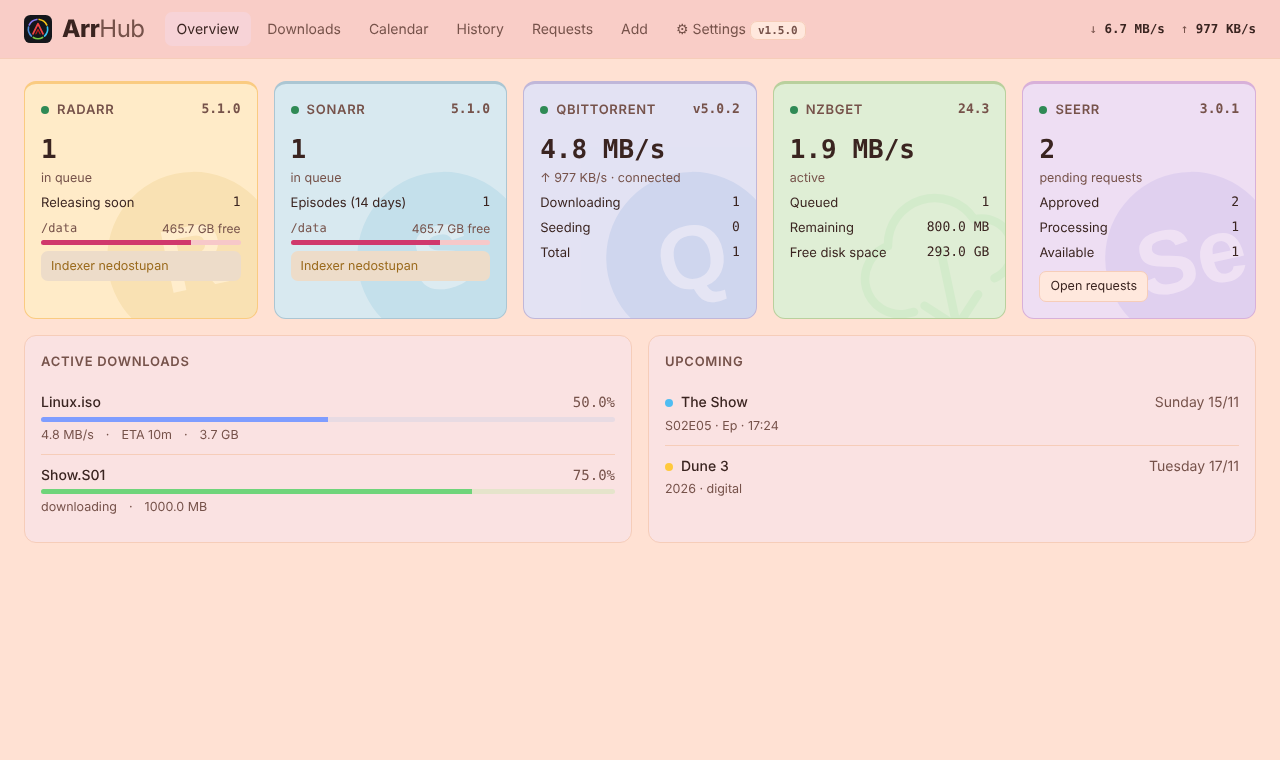
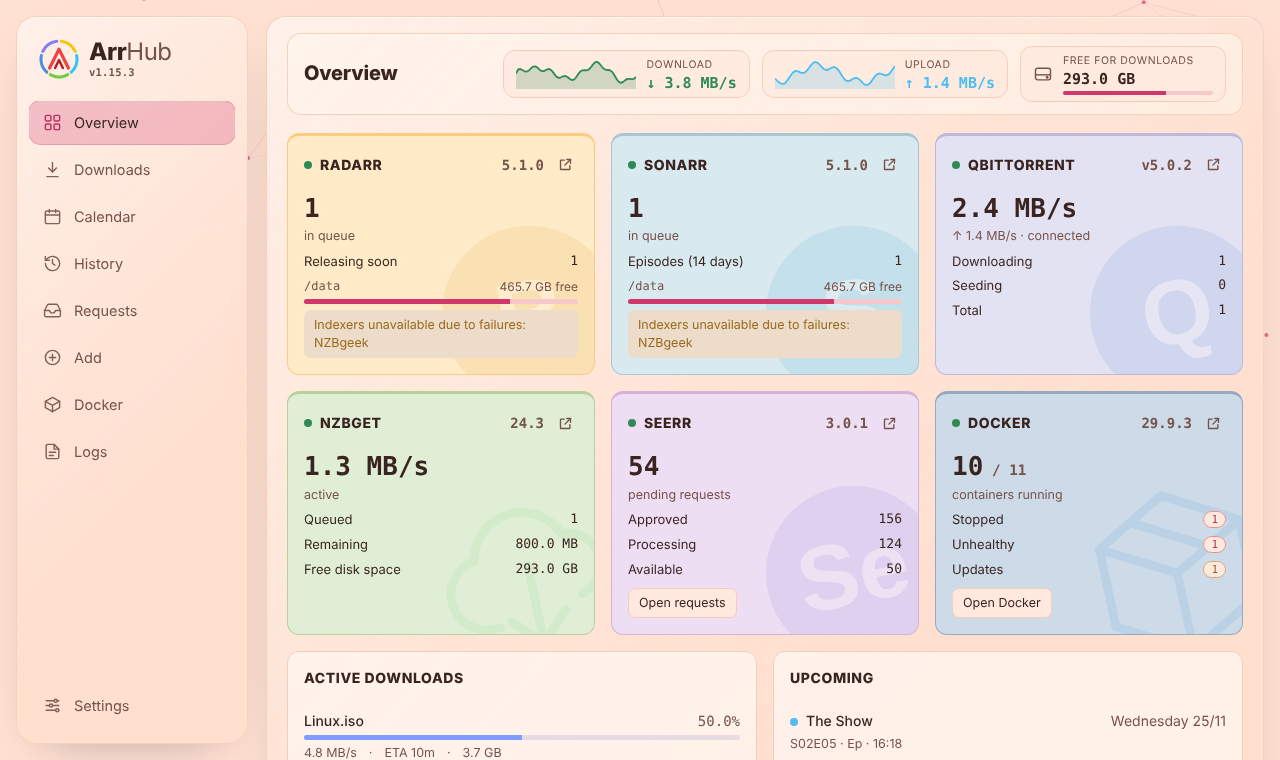
Release 1.16.0: live tab header with speed graphs and free space, new screenshots
- tab header moved into the visible glass panel: download/upload each with its own sparkline (last ~60 refreshes),
  free for downloads = min(qBittorrent free_space_on_disk, NZBGet FreeDiskSpaceMB) with tooltip and usage bar
- qBittorrent free space via incremental /sync/maindata (rid)
- sidebar speeds removed; Docker rows: CPU+RAM in one column, actions on one line
- README: new screenshots (overview, downloads, docker, requests, settings, themes), Docker screenshot, header feature

Claude-Session: https://claude.ai/code/session_019WLh2Y7R5hnFwEuNHauMD5

diff --git a/public/index.html b/public/index.html
@@ -47,8 +47,21 @@ nav button[data-v=settings]{margin-top:auto}
 nav button:hover{color:var(--text);background:color-mix(in srgb,var(--text) 7%,transparent)}
 nav button.on{color:var(--text);background:color-mix(in srgb,var(--accent) 22%,transparent);box-shadow:0 0 0 1px color-mix(in srgb,var(--accent) 45%,transparent)}
 nav button.on .ni{opacity:1;color:var(--accent-text,var(--accent))}
-.speeds{display:flex;flex-direction:column;gap:6px;font-family:var(--mono);font-size:12.5px;color:var(--muted);padding:12px 14px 2px;margin-top:10px;border-top:1px solid var(--glass-line)}
-.speeds b{color:var(--text);font-weight:600}
+.tabhead{display:flex;align-items:center;gap:12px;flex-wrap:wrap;margin:-4px 0 18px;padding:12px 16px;border-radius:14px;
+  background:color-mix(in srgb,var(--panel) 55%,transparent);border:1px solid var(--glass-line)}
+.tabhead h1{margin:0;font-size:20px;font-weight:800;letter-spacing:-.01em}
+.tabhead .sp{flex:1}
+.th-m{display:flex;align-items:center;gap:10px;padding:6px 12px;border-radius:12px;background:color-mix(in srgb,var(--panel2) 70%,transparent);border:1px solid var(--line)}
+.th-m .col{display:flex;flex-direction:column;gap:3px;min-width:0}
+.th-m .v{font:700 15px/1.1 var(--mono);white-space:nowrap}
+.th-m .l{font-size:10.5px;color:var(--muted);letter-spacing:.05em;text-transform:uppercase;white-space:nowrap}
+.th-m .spark{width:120px;height:30px;display:block;flex:none}
+.th-m .di{width:20px;height:20px;fill:none;stroke:currentColor;stroke-width:1.7;color:var(--muted);flex:none}
+.th-m .bar{height:4px;width:150px}
+.th-m.dn .v{color:var(--ok)}.th-m.up .v{color:var(--sonarr)}
+.th-m.low .v{color:var(--err)}
+@media(max-width:700px){.tabhead{padding:10px}.tabhead h1{width:100%}.th-m .spark{width:80px}}
+
 main{padding:16px 16px 16px 0}
 /* every tab sits on one frame: 30 % opaque, so the dynamic background stays visible around the cards */
 main>section{background:var(--glass-hi),var(--glass);-webkit-backdrop-filter:blur(16px) saturate(140%);backdrop-filter:blur(16px) saturate(140%);border:1px solid var(--glass-line);border-radius:20px;padding:20px;box-shadow:var(--glass-shadow);min-height:calc(100vh - 32px)}
@@ -203,15 +216,16 @@ body.has-bg .card,body.has-bg .res,body.has-bg .notice{background:color-mix(in s
 .dkchip b{font-family:var(--mono);font-size:13px}
 .dkgrp{margin-top:16px}
 .dkgrp>h3{margin:0 0 8px 4px;font-size:12px;letter-spacing:.1em;text-transform:uppercase;color:var(--muted);display:flex;gap:8px;align-items:center}
-.dkrow{display:grid;grid-template-columns:minmax(210px,1.4fr) minmax(170px,1fr) 150px 150px auto;gap:14px;align-items:center;padding:12px 16px;margin-bottom:8px}
+.dkrow{display:grid;grid-template-columns:minmax(190px,1.4fr) minmax(150px,1fr) 170px auto;gap:14px;align-items:center;padding:12px 16px;margin-bottom:8px}
 .dkrow>div{min-width:0}
 .dkrow .nm{display:flex;align-items:center;gap:10px;min-width:0}
 .dkrow .nm b{font-size:14.5px;white-space:nowrap;overflow:hidden;text-overflow:ellipsis}
 .dkrow .img{font:12px var(--mono);color:var(--muted);white-space:nowrap;overflow:hidden;text-overflow:ellipsis}
 .dkrow .st{font-size:12.5px;color:var(--muted)}
-.dkrow .meter{font:12px var(--mono);color:var(--muted);display:flex;flex-direction:column;gap:4px}
+.dkrow .meter{font:12px var(--mono);color:var(--muted);display:flex;flex-direction:column;gap:3px}
+.dkrow .meter span{display:flex;justify-content:space-between;gap:8px}.dkrow .meter b{font-weight:600;color:var(--muted)}
 .dkrow .meter .bar{height:4px}
-.dkrow .acts{display:flex;gap:6px;justify-content:flex-end;flex-wrap:wrap}
+.dkrow .acts{display:flex;gap:6px;justify-content:flex-end;flex-wrap:nowrap}
 .dkrow .acts .btn{padding:6px 10px;font-size:12.5px}
 .dkrow .acts .btn.upd{border-color:color-mix(in srgb,var(--accent) 60%,var(--line));color:var(--accent-text,var(--accent))}
 .dkrow .job{grid-column:1/-1;font-size:12.5px;display:flex;gap:10px;align-items:center;flex-wrap:wrap}
@@ -231,7 +245,7 @@ body.has-bg .card,body.has-bg .res,body.has-bg .notice{background:color-mix(in s
 .dkm-h{display:flex;align-items:center;gap:10px;flex-wrap:wrap}.dkm-h b{font-size:15px}
 .dkm-b{flex:1;max-height:none;min-height:0}
 .logrow.lv-stderr .lm{color:color-mix(in srgb,var(--err) 80%,var(--text))}
-@media(max-width:1100px){.dkrow{grid-template-columns:1fr 1fr}.dkrow .acts{grid-column:1/-1;justify-content:flex-start}}
+@media(max-width:1100px){.dkrow{grid-template-columns:1fr 1fr}.dkrow .acts{grid-column:1/-1;justify-content:flex-start;flex-wrap:wrap}}
 @media(max-width:560px){.dkrow{grid-template-columns:1fr}}
 .pager{display:flex;align-items:center;gap:14px;flex-wrap:wrap;margin-top:16px;padding:10px 14px;background:var(--panel);border:1px solid var(--line);border-radius:12px;font-size:13px}
 .pager .sp{flex:1}
@@ -322,10 +336,19 @@ body.card-icons .card.wide[data-icon]::after{height:clamp(110px,110%,260px);opac
     <button data-v="logs"><svg class="ni" viewBox="0 0 24 24" aria-hidden="true"><path d="M14 3H6a2 2 0 0 0-2 2v14a2 2 0 0 0 2 2h12a2 2 0 0 0 2-2V9z"/><path d="M14 3v6h6M8 13h8M8 17h5"/></svg><span data-i18n="nav.logs">Logs</span></button>
     <button data-v="settings"><svg class="ni" viewBox="0 0 24 24" aria-hidden="true"><path d="M4 6h10M18 6h2M4 12h4M12 12h8M4 18h12M20 18h0"/><circle cx="16" cy="6" r="2"/><circle cx="10" cy="12" r="2"/><circle cx="18" cy="18" r="2"/></svg><span data-i18n="nav.settings">Settings</span></button>
   </nav>
-  <div class="speeds" id="speeds"></div>
 </aside>
 
 <main>
+  <!-- tab header: moved into the visible tab by show() -->
+  <div id="tabhead" class="tabhead">
+    <h1 id="thTitle"></h1><span class="sp"></span>
+    <div class="th-m dn" id="thDn"><svg class="spark" viewBox="0 0 120 30" preserveAspectRatio="none" aria-hidden="true"></svg>
+      <div class="col"><span class="l" data-i18n="th.download">Download</span><span class="v" id="thDnV">–</span></div></div>
+    <div class="th-m up" id="thUp"><svg class="spark" viewBox="0 0 120 30" preserveAspectRatio="none" aria-hidden="true"></svg>
+      <div class="col"><span class="l" data-i18n="th.upload">Upload</span><span class="v" id="thUpV">–</span></div></div>
+    <div class="th-m hidden" id="thFree"><svg class="di" viewBox="0 0 24 24" aria-hidden="true"><rect x="3" y="5" width="18" height="14" rx="2.5"/><path d="M3 13h18"/><circle cx="17" cy="16" r=".9" fill="currentColor"/></svg>
+      <div class="col"><span class="l" data-i18n="th.free">Free for downloads</span><span class="v" id="thFreeV">–</span><div class="bar hidden" id="thFreeBar"><i></i></div></div></div>
+  </div>
   <!-- OVERVIEW -->
   <section id="v-overview">
     <div class="notice hidden" id="setupNotice"><span data-i18n="ov.noServices">No services are configured yet.</span><span class="sp"></span><button class="btn p" onclick="show('settings')" data-i18n="ov.openSettings">Open settings</button></div>

diff --git a/public/app.js b/public/app.js
@@ -66,12 +66,50 @@ function render() {
   renderCalendar(); renderHistory(); renderRequests();
 }
 
+// ---- tab header: download / upload with their own graph, free space for downloads ----
+const speedHist = { dl: [], ul: [], at: 0 };
+function spark(svg, arr, color) {
+  const W = 120, H = 30, max = Math.max(...arr, 1);
+  const pts = (arr.length > 1 ? arr : [arr[0] || 0, arr[0] || 0]).map((v, i, a) => `${(i / (a.length - 1) * W).toFixed(1)},${(H - 2 - v / max * (H - 5)).toFixed(1)}`).join(' ');
+  svg.innerHTML = `<polygon points="0,${H} ${pts} ${W},${H}" fill="color-mix(in srgb,${color} 22%,transparent)"/><polyline points="${pts}" fill="none" stroke="${color}" stroke-width="1.8" stroke-linejoin="round" vector-effect="non-scaling-stroke"/>`;
+}
+function renderTabHead(dl, ul, haveSpeed) {
+  const now = Date.now();
+  if (haveSpeed && now - speedHist.at > 1500) {           // one point per refresh, last ~60
+    speedHist.dl.push(dl); speedHist.ul.push(ul); speedHist.at = now;
+    if (speedHist.dl.length > 60) { speedHist.dl.shift(); speedHist.ul.shift(); }
+  }
+  $('#thDn').classList.toggle('hidden', !haveSpeed); $('#thUp').classList.toggle('hidden', !haveSpeed);
+  $('#thDnV').textContent = '↓ ' + speed(dl); $('#thUpV').textContent = '↑ ' + speed(ul);
+  spark($('#thDn .spark'), speedHist.dl, 'var(--ok)'); spark($('#thUp .spark'), speedHist.ul, 'var(--sonarr)');
+  // free space where the download clients write; the smaller one runs out first
+  const src = [];
+  const qf = state.data.qbittorrent?.freeSpace;
+  if (state.cfg.qbittorrent && qf != null) src.push({ name: 'qBittorrent', free: qf });
+  const ns = state.data.nzbget?.status;
+  if (state.cfg.nzbget && ns && ns.FreeDiskSpaceMB != null) src.push({ name: 'NZBGet', free: ns.FreeDiskSpaceMB * 1048576, total: ns.TotalDiskSpaceMB ? ns.TotalDiskSpaceMB * 1048576 : null });
+  const box = $('#thFree');
+  box.classList.toggle('hidden', !src.length);
+  if (!src.length) return;
+  const min = src.reduce((a, b) => (b.free < a.free ? b : a));
+  $('#thFreeV').textContent = size(min.free) + (src.length > 1 ? '' : '');
+  box.title = src.map(x => t('th.freeTip', { name: x.name, free: size(x.free) }) + (x.total ? ` / ${size(x.total)}` : '')).join('\n');
+  const bar = $('#thFreeBar');
+  bar.classList.toggle('hidden', !min.total);
+  if (min.total) { const used = 1 - min.free / min.total; bar.style.setProperty('--c', used > .9 ? 'var(--err)' : 'var(--accent)'); bar.firstElementChild.style.width = used * 100 + '%'; }
+  box.classList.toggle('low', min.total ? min.free / min.total < .1 : min.free < 20 * 1073741824);
+}
+function placeTabHead(v) {
+  const sec = $('#v-' + v), h = $('#tabhead');
+  if (sec && h.parentElement !== sec) sec.prepend(h);
+  $('#thTitle').textContent = document.querySelector(`#nav [data-v="${v}"] span`)?.textContent || '';
+}
 function renderSpeeds() {
   const q = state.data.qbittorrent?.transfer, n = state.data.nzbget?.status;
   let dl = 0, ul = 0;
   if (q) { dl += q.dl_info_speed; ul += q.up_info_speed; }
   if (n) dl += n.DownloadRate;
-  $('#speeds').innerHTML = `<span>↓ <b>${speed(dl)}</b></span><span>↑ <b>${speed(ul)}</b></span>`;
+  renderTabHead(dl, ul, !!(q || n));
   Appearance.Bg.setActivity(dl);
 }
 
@@ -471,6 +509,7 @@ function show(v) {
   state.view = v;
   document.querySelectorAll('main > section').forEach(s => s.classList.toggle('hidden', s.id !== 'v-' + v));
   document.querySelectorAll('#nav button').forEach(b => b.classList.toggle('on', b.dataset.v === v));
+  placeTabHead(v);
   if (v === 'add') loadOptions();
   if (v === 'logs') { renderLogSources(); loadLogs(); }
   if (v === 'history') loadAllHistory();
@@ -600,8 +639,8 @@ function dkRow(c) {
       ${c.health ? `<span class="tag ${c.health === 'healthy' ? 'ok' : c.health === 'unhealthy' ? 'err' : 'warn'}">${esc(t('dk.h.' + c.health))}</span>` : ''}${c.self ? `<span class="tag">ArrHub</span>` : ''}</div>
       <div class="img" title="${esc(c.image)}">${esc(c.image)}</div></div>
     <div><div class="st">${esc(dkUptime(c))}</div><div class="m" style="margin-top:5px;display:flex;gap:6px;flex-wrap:wrap">${dkUpdBadge(c)}${c.ports.slice(0, 3).map(p => `<span class="tag mono">${esc(p)}</span>`).join('')}${/^container:/.test(c.networkMode) ? `<span class="tag" title="${esc(c.networkMode)}">${t('dk.sharedNet')}</span>` : ''}</div></div>
-    <div class="meter"><span>CPU ${cpu}</span><div class="bar"><i style="width:${Math.min(100, st?.cpu || 0)}%"></i></div></div>
-    <div class="meter"><span>RAM ${mem}</span><div class="bar"><i style="width:${memPct}%"></i></div></div>
+    <div class="meter"><span><b>CPU</b>${cpu}</span><div class="bar"><i style="width:${Math.min(100, st?.cpu || 0)}%"></i></div>
+      <span style="margin-top:4px"><b>RAM</b>${mem}</span><div class="bar"><i style="width:${memPct}%"></i></div></div>
     <div class="acts">${acts}</div>
     ${dkJob(c)}
   </div>`;
@@ -864,7 +903,7 @@ function labelAppearance() {
 
 // Re-render everything that contains translated text
 function relabel() {
-  I18N.apply(); renderLogSources(); renderLogs(); labelAppearance(); settingsTexts(); renderAbout(); renderIconStatus(); decorateStaticLinks(); render();
+  I18N.apply(); renderLogSources(); renderLogs(); placeTabHead(state.view); labelAppearance(); settingsTexts(); renderAbout(); renderIconStatus(); decorateStaticLinks(); render();
   if (lastResults.length && state.view === 'add') renderResults();
 }
 function applyUi(ui) {

diff --git a/public/i18n.js b/public/i18n.js
@@ -82,7 +82,7 @@
       'set.netTitle': 'Network', 'set.offline': 'Offline mode – don\'t connect to the internet',
       'set.offlineHint': 'ArrHub then talks only to your services: no update check on GitHub and no images from TMDB/TVDB. Posters and backgrounds come only from Radarr and Sonarr (MediaCover), request posters from Seerr\'s image cache. Items without a local image show a placeholder.',
       'about.offline': 'Offline mode – update check is off',
-      'nav.docker': 'Docker',
+      'nav.docker': 'Docker', 'th.download': 'Download', 'th.upload': 'Upload', 'th.free': 'Free for downloads', 'th.freeTip': '{name}: {free} free',
       'dk.check': 'Check for updates', 'dk.checking': 'Checking for updates…', 'dk.checkedAgo': 'Updates checked {ago}', 'dk.updateAll': 'Update all ({n})',
       'dk.f.all': 'All', 'dk.f.running': 'Running', 'dk.f.stopped': 'Stopped', 'dk.f.updates': 'Updates', 'dk.search': 'Search containers…',
       'dk.authWarn': 'ArrHub login is off – anyone on your network can stop or update your containers. Set a username and password in Settings.',
@@ -183,7 +183,7 @@
       'set.netTitle': 'Mreža', 'set.offline': 'Bez interneta – ne spajaj se na internet',
       'set.offlineHint': 'ArrHub tada razgovara samo s tvojim servisima: nema provjere nove verzije na GitHubu ni slika s TMDB-a/TVDB-a. Posteri i pozadine dolaze samo iz Radarra i Sonarra (MediaCover), a posteri zahtjeva iz Seerrove predmemorije slika. Stavke bez lokalne slike prikazuju prazno polje.',
       'about.offline': 'Bez interneta – provjera nove verzije je isključena',
-      'nav.docker': 'Docker',
+      'nav.docker': 'Docker', 'th.download': 'Preuzimanje', 'th.upload': 'Slanje', 'th.free': 'Slobodno za preuzimanja', 'th.freeTip': '{name}: {free} slobodno',
       'dk.check': 'Provjeri ažuriranja', 'dk.checking': 'Provjera ažuriranja…', 'dk.checkedAgo': 'Ažuriranja provjerena {ago}', 'dk.updateAll': 'Ažuriraj sve ({n})',
       'dk.f.all': 'Svi', 'dk.f.running': 'Rade', 'dk.f.stopped': 'Zaustavljeni', 'dk.f.updates': 'Ažuriranja', 'dk.search': 'Pretraži kontejnere…',
       'dk.authWarn': 'Prijava u ArrHub je isključena – bilo tko na tvojoj mreži može zaustaviti ili ažurirati tvoje kontejnere. Postavi korisničko ime i lozinku u Postavkama.',

diff --git a/server.js b/server.js
@@ -512,13 +512,25 @@ function makeQb(conf) { return {
     if (!r.ok) throw new Error(`${r.status}: ${text.slice(0, 200)}`);
     try { return JSON.parse(text); } catch { return text; }
   },
+  // free space in the download folder: /sync/maindata, incremental after the first call (rid) so it stays cheap
+  rid: 0, serverState: {},
+  async freeSpace() {
+    try {
+      const d = await this.call(`/sync/maindata?rid=${this.rid}`);
+      if (d.full_update) this.serverState = {};
+      Object.assign(this.serverState, d.server_state || {});
+      this.rid = d.rid || 0;
+    } catch { this.rid = 0; }
+    return this.serverState.free_space_on_disk ?? null;
+  },
   async summary() {
-    const [transfer, torrents, version] = await Promise.all([
+    const [transfer, torrents, version, freeSpace] = await Promise.all([
       this.call('/transfer/info'),
       this.call('/torrents/info?sort=added_on&reverse=true'),
       this.call('/app/version').catch(() => ''),
+      this.freeSpace(),
     ]);
-    return { version, transfer, torrents };
+    return { version, transfer, torrents, freeSpace };
   },
   // qBittorrent 5.x uses stop/start, older versions pause/resume
   async action(action, hashes, deleteFiles) {

diff --git a/.github/releases/v1.16.0.md b/.github/releases/v1.16.0.md
@@ -1,0 +1,43 @@
+![ArrHub 1.16.0](https://raw.githubusercontent.com/moordrak/ArrHub/v1.16.0/docs/screenshot.png)
+
+## What's new in 1.16.0
+- **Live header on every tab** – the speeds moved from the menu into the header of the glass panel:
+  - **download** and **upload**, each with **its own graph** of the last minutes
+  - **free for downloads** – the free space where qBittorrent and NZBGet save, the smaller of the two (it fills up first); hover for both values, turns red when space runs low
+  - qBittorrent's free space is read incrementally (`/sync/maindata` with `rid`), so it costs almost nothing per refresh
+- **Docker tab layout** – CPU and RAM share one column so the actions stay on one line on 1280 px screens
+- **New screenshots** in the README
+
+![Docker control](https://raw.githubusercontent.com/moordrak/ArrHub/v1.16.0/docs/docker.png)
+
+## Everything since 1.13 – all fixes included
+- **1.13.0 – Glass layout:** menu on the left, frosted 70 % transparent glass behind the cards, ☰ menu on phones
+- **1.14.0 – Docker control:** every container with state, health, CPU/RAM, ports and update status; start / stop / restart, logs, one-click updates with automatic rollback, containers sharing a VPN container's network recreated with it
+- **1.15.0 – Docker over SSH:** `ssh://user@host`, generated key pair restricted to `docker system dial-stdio`, no open port needed
+- **1.15.1** – the socket-proxy 403 error names the exact switch to turn on
+- **1.15.2** – fixed *Premature close* when updating containers over SSH
+- **1.15.3** – container logs through the linuxserver socket proxy need `ALLOW_LOGS=1` (README and error message)
+
+![Poster wall](https://raw.githubusercontent.com/moordrak/ArrHub/v1.16.0/docs/theme-posters.png)
+
+## Upgrade
+
+**Docker**
+```bash
+docker pull ghcr.io/moordrak/arrhub:1.16.0   # or :latest
+docker compose up -d                           # if you use docker-compose.yml
+```
+
+**Proxmox LXC** (on the Proxmox host)
+```bash
+pct exec <CTID> -- bash -c "$(curl -fsSL https://raw.githubusercontent.com/moordrak/arrhub/main/install.sh)"
+```
+
+**Debian / Ubuntu**
+```bash
+bash -c "$(curl -fsSL https://raw.githubusercontent.com/moordrak/arrhub/main/install.sh)"
+```
+
+Your existing `config.json` is kept. Reload the page once after upgrading (Ctrl+F5).
+
+**Full changelog:** https://github.com/moordrak/arrhub/compare/v1.13.0...v1.16.0

diff --git a/README.hr.md b/README.hr.md
@@ -9,6 +9,8 @@
 
 ![ArrHub](docs/screenshot.png)
 
+![Upravljanje Dockerom](docs/docker.png)
+
 ![Zid postera](docs/theme-posters.png)
 
 ![Ikone servisa na karticama](docs/card-icons.png)
@@ -32,6 +34,7 @@ i prosljeđuje pozive, pa preglednik nikad ne vidi tajne i nema CORS problema.
 - **Poveznice na svaki servis** – svaka kartica ima gumb ↗ koji otvara web sučelje servisa u novoj kartici. Zadano vodi na URL servisa, a u Postavkama se za svaki servis može upisati zasebna javna poveznica (npr. adresa preko reverse proxyja)
 - **Samopotpisani certifikati** – za servis na `https://` sa samopotpisanim ili lokalno potpisanim certifikatom uključi *Prihvati samopotpisani certifikat* u Postavkama. Provjera se preskače samo za adresu tog servisa; sve ostalo (npr. provjera ažuriranja na GitHubu) i dalje provjerava certifikate
 - **Bez interneta** – Postavke → *Mreža*: ArrHub tada razgovara samo s tvojim servisima – nema provjere verzije ni slika s TMDB-a/TVDB-a; posteri dolaze iz Radarra/Sonarra i Seerrove predmemorije slika (također `ARRHUB_OFFLINE=true`)
+- **Zaglavlje uživo** – svaki tab prikazuje brzinu preuzimanja i slanja, svaku sa svojim grafom zadnjih minuta, i slobodan prostor gdje klijenti za preuzimanje spremaju
 - **Upravljanje Dockerom** – svi kontejneri na Docker hostu sa stanjem, zdravljem, CPU/RAM-om i statusom ažuriranja; pokretanje, zaustavljanje, restart, logovi i ažuriranje jednim klikom s automatskim vraćanjem (vidi [Upravljanje Dockerom](#upravljanje-dockerom))
 - **Stakleni izgled** – izbornik lijevo i zamućena, 70 % prozirna staklena ploča iza pločica kroz koju se vidi dinamička pozadina; na mobitelu se izbornik otvara gumbom ☰
 - **Logovi** – log ArrHuba i logovi Radarra, Sonarra, qBittorrenta, NZBGeta i Seerra u jednom tabu, s filtrom razine, pretragom, automatskim osvježavanjem i preuzimanjem

diff --git a/README.md b/README.md
@@ -9,6 +9,8 @@
 
 ![ArrHub](docs/screenshot.png)
 
+![Docker control](docs/docker.png)
+
 ![Poster wall](docs/theme-posters.png)
 
 ![Service icons on cards](docs/card-icons.png)
@@ -32,6 +34,7 @@ and proxies the calls, so the browser never sees secrets and there are no CORS p
 - **Links to every service** – each card has a ↗ button that opens the service's own web UI in a new tab. By default it uses the service URL; in Settings you can set a separate public link per service (e.g. your reverse-proxy address)
 - **Self-signed certificates** – for a service on `https://` with a self-signed or locally signed certificate, tick *Accept self-signed certificate* in Settings. Verification is skipped only for that service's address; everything else (e.g. the GitHub update check) still verifies certificates
 - **Offline mode** – Settings → *Network*: ArrHub then talks only to your services – no update check, no images from TMDB/TVDB; posters come from Radarr/Sonarr and Seerr's image cache (also `ARRHUB_OFFLINE=true`)
+- **Live header** – every tab shows download and upload speed, each with its own graph of the last minutes, and the free space where your download clients save
 - **Docker control** – every container on your Docker host with state, health, CPU/RAM and update status; start, stop, restart, logs and one-click updates with automatic rollback (see [Docker control](#docker-control))
 - **Glass layout** – menu on the left and a frosted, 70 % transparent glass frame behind the cards, so the dynamic background shows through; on phones the menu opens with ☰
 - **Logs** – read ArrHub's own log and the logs of Radarr, Sonarr, qBittorrent, NZBGet and Seerr in one tab, filter by level, search, auto-refresh and download
